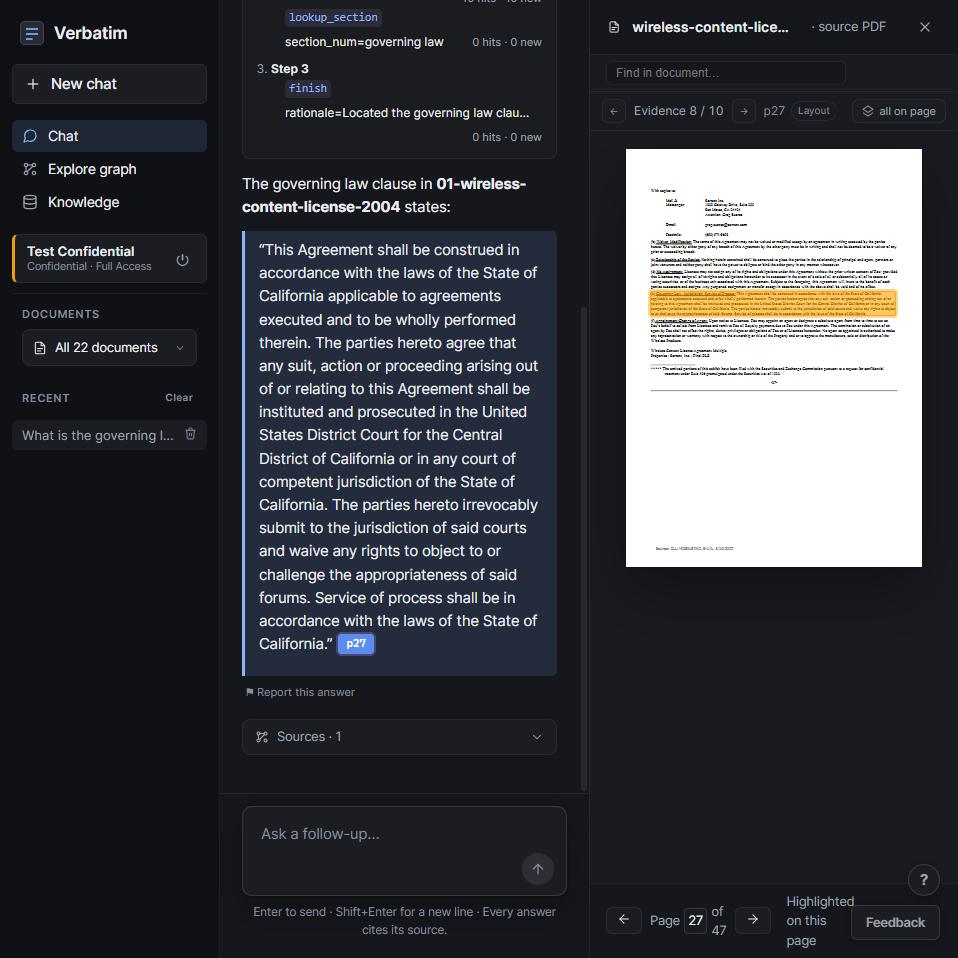
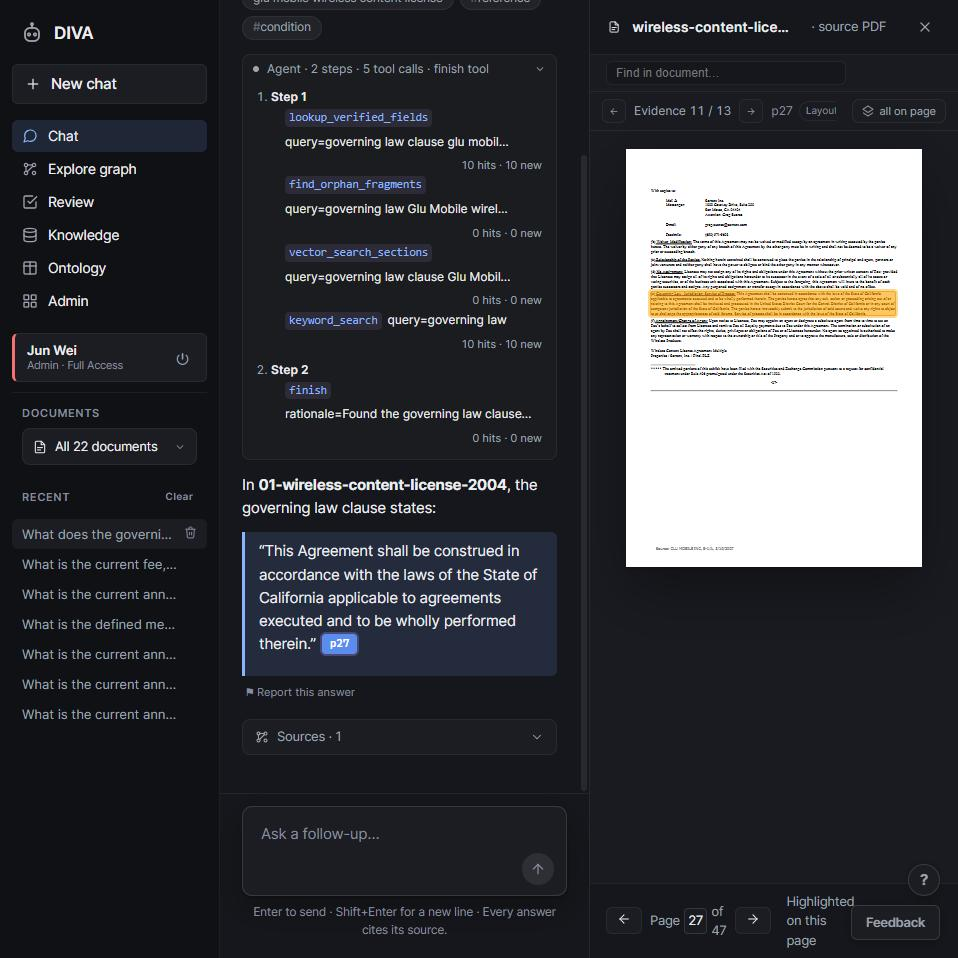
Restore screenshots and the gif to the README, recaptured as DIVA
The tone pass dropped every screenshot and the supersedence gif from
the README, leaving the workflow diagram as the only image. Puts back
the chat citation, the per-field supersedence view, and the
real-world citation, at the points in the text they each illustrate.

The product screenshots are freshly recaptured against a rebuilt,
DIVA-branded instance rather than restored as the old Verbatim ones,
since the whole point of putting them back is that they show the
product accurately. chat-start.png and review-field.png are
recaptured for the same reason, even though only the latter is
currently embedded anywhere, so the catalogue in docs/images/README.md
stays honest about what each file shows.

diff --git a/README.md b/README.md
@@ -16,7 +16,7 @@ open an answer and check the document it came from.
 
 The application is aimed at document collections where context matters: a
 contract and its amendments, a group of filings, or another set of records with
-named fields and relationships. You define the fields for the document domain;
+named fields and relationships. You define the fields for the document domain.
 DIVA reads the documents, presents the results for review, and makes them
 available through chat and structured queries.
 
@@ -37,9 +37,22 @@ available through chat and structured queries.
 - Ask questions in chat or use structured lookups for exact comparisons and
   totals. Answers include citations that open the relevant page.
 
+![An answer reading "the current annual licence fee is SGD 61,500, and it was set by the 02-first-amendment-2024 document", with a citation chip clicked. The source PDF is open beside it with that exact clause highlighted in amber.](docs/images/chat-citation.png)
+
+"Read the newest document" gets the fee wrong here. The answer comes from a
+per-field walk backwards along the amendment chain, not from whichever
+document is most recent:
+
+![Two fields resolved separately by walking backwards along a chain of three documents. The licence fee is found in the first amendment, the initial term in the second.](docs/diagrams/supersedence.gif)
+
+![Three money fields, each showing its current value with the document that set it, and the earlier value struck through underneath. The licence fee is SGD 61,500 from the first amendment, with SGD 48,000 struck through. The source clause is quoted and highlighted on the page beside it.](docs/images/knowledge-supersedence.png)
+
 The repository includes a small synthetic contract family for a repeatable
-walkthrough. It also includes a larger public corpus; see the notes in
+walkthrough, and the screenshots above are taken against it. It also includes
+a larger public corpus. See the notes in
 [`examples/real_world/`](examples/real_world/README.md) before loading it.
+
+![An answer quoting the governing law clause of the Glu Mobile wireless content license word for word, with its citation open beside it, the exact clause highlighted in amber on the scanned SEC filing page.](docs/images/real-world-citation.png)
 
 ## Start locally
 
